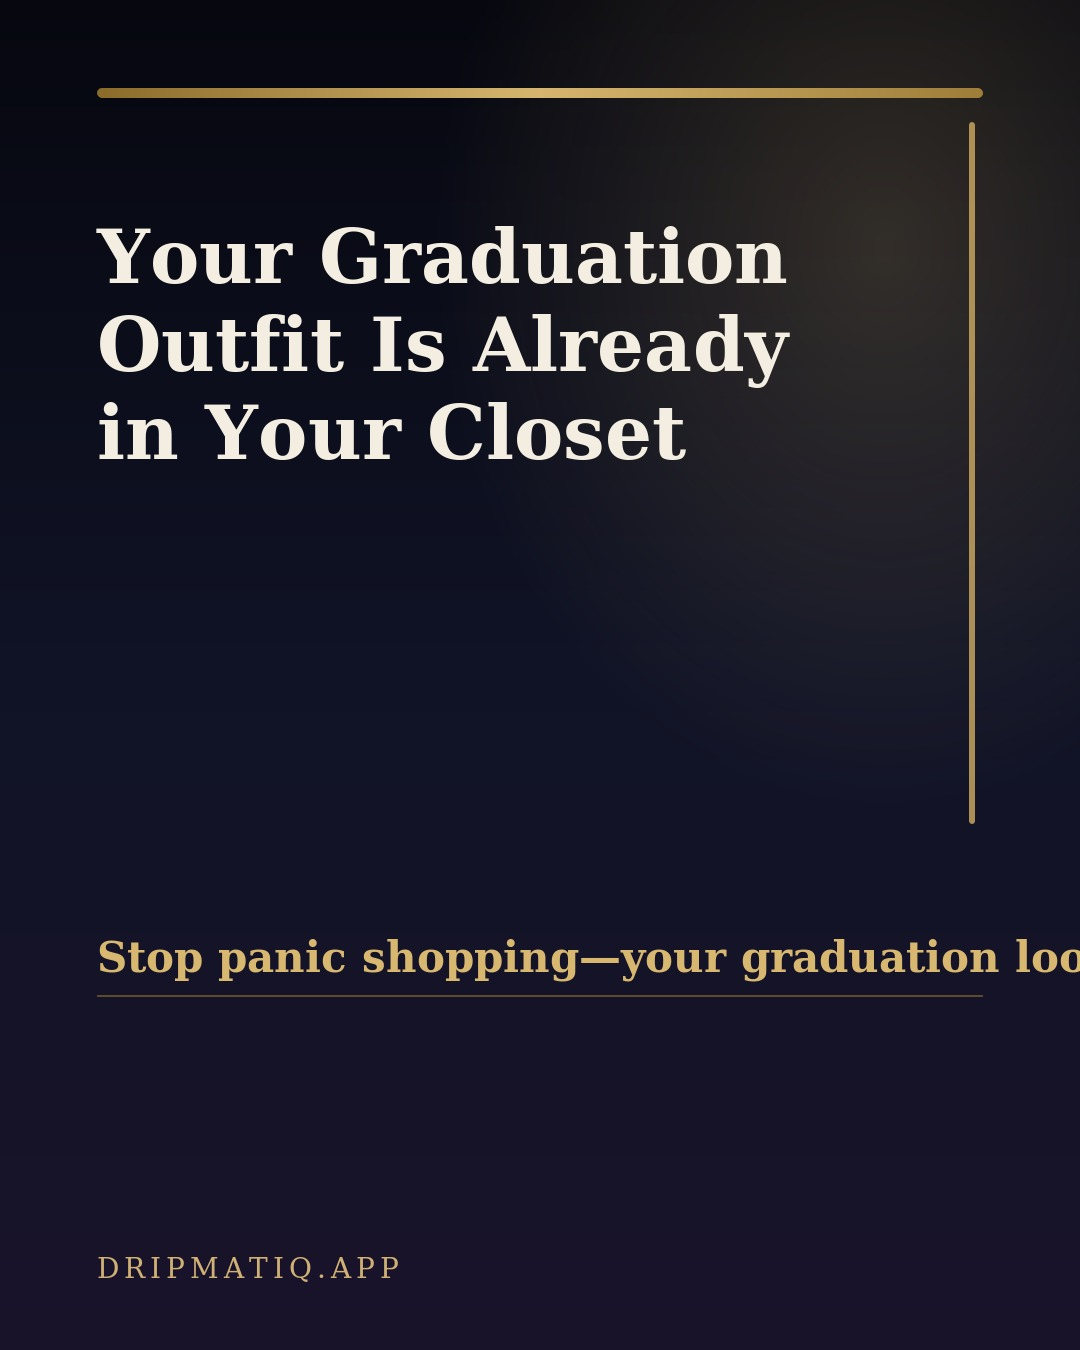
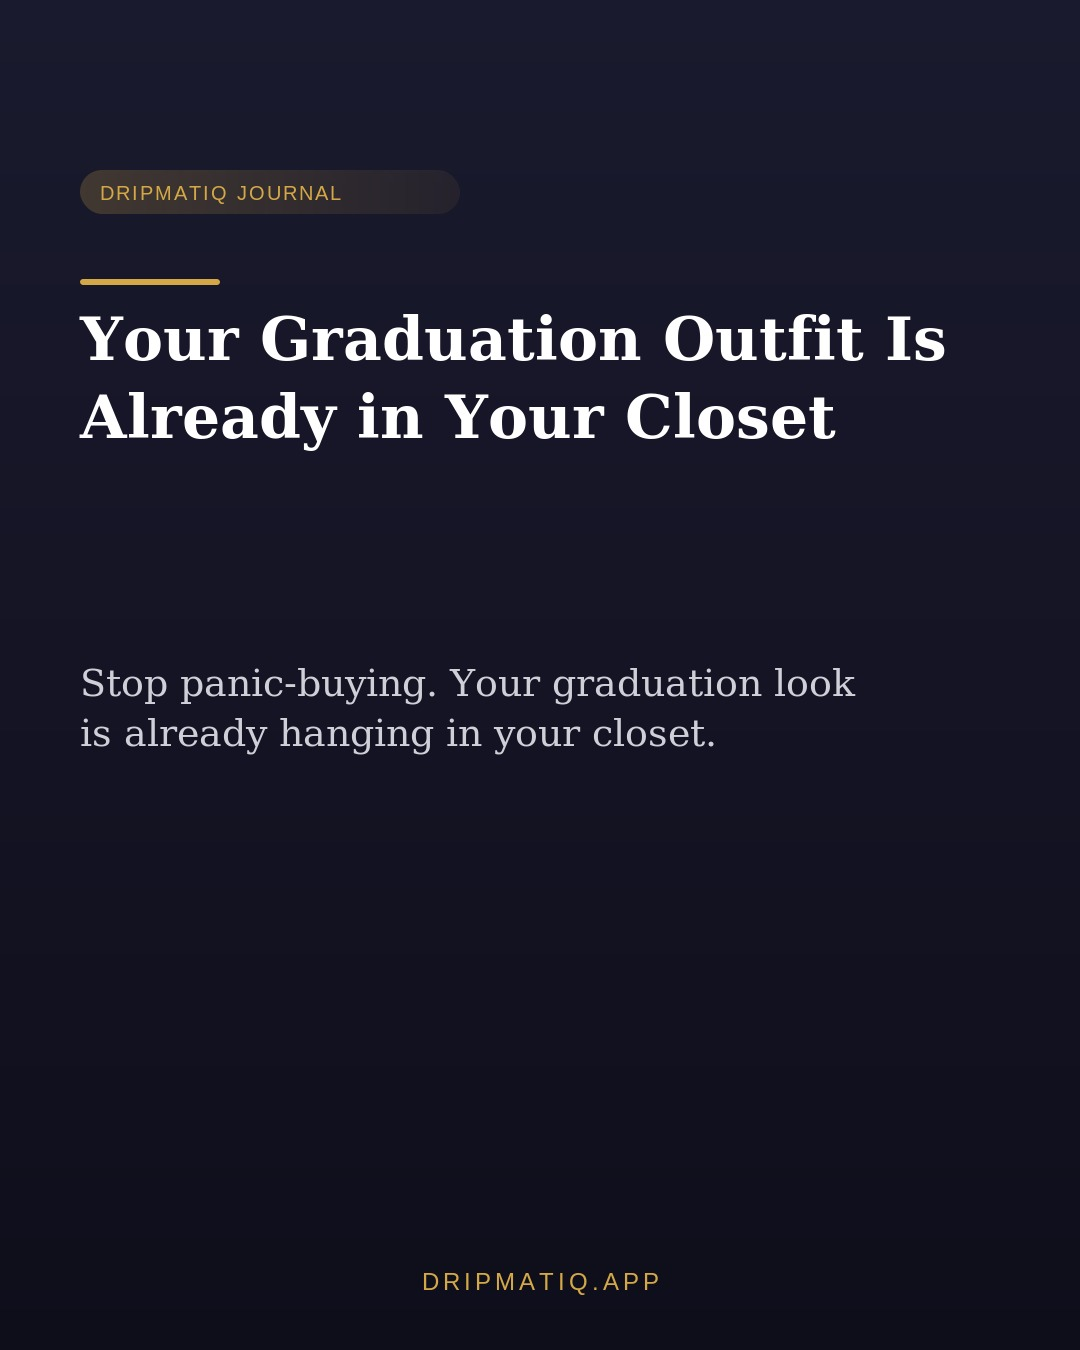
marketing(instagram): pack for graduation-outfit-from-your-closet

diff --git a/public/instagram/graduation-outfit-from-your-closet/caption.md b/public/instagram/graduation-outfit-from-your-closet/caption.md
@@ -1,7 +1,7 @@
-Your graduation outfit is already in your closet.
+Your graduation outfit is probably already in your closet.
 
-Before you panic-buy something you’ll wear once, try this: build a ceremony look from pieces that already fit your life. This post gives you a simple 3-layer framework (anchor piece, elevation layer, comfort insurance) so your outfit looks intentional in photos and still feels good hours later. You’ll also get real combo ideas for grads, parents, and friends—plus a quick distance-photo test that instantly tells you if the look works. If you’re in the “nothing works” spiral, this is the reset.
+Before you stress-buy something you’ll wear once, try this: build one look around your best anchor piece, add a single elevation layer, and lock in comfort so you can actually enjoy the day. That one shift turns "I have nothing to wear" into an outfit that feels intentional in photos and in real life. If graduation dressing has you spiraling, this one will calm you down fast.
 
 Full read → link in bio (dripmatiq.app/blog/graduation-outfit-from-your-closet?utm_source=instagram&utm_medium=social&utm_campaign=graduation-outfit-from-your-closet)
 
-#ootd #fashion #style #aifashion #wardrobe #stylinghacks #eventdressing #closetstyling #graduation #capsulewardrobe #graduationoutfit #closetfirst
+#ootd #fashion #style #aifashion #wardrobe #stylinghacks #eventdressing #closetstyling #graduation #capsulewardrobe